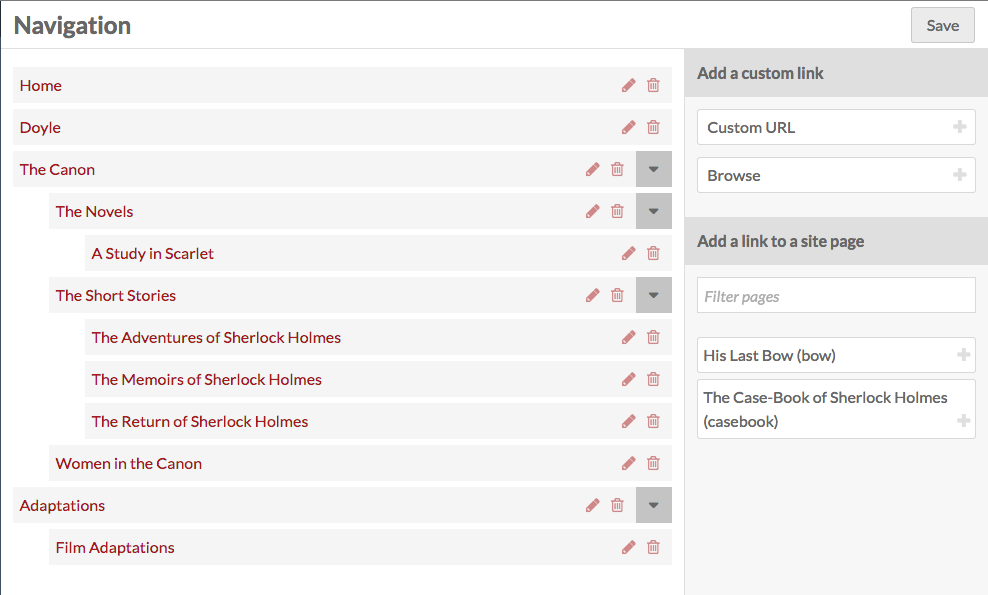
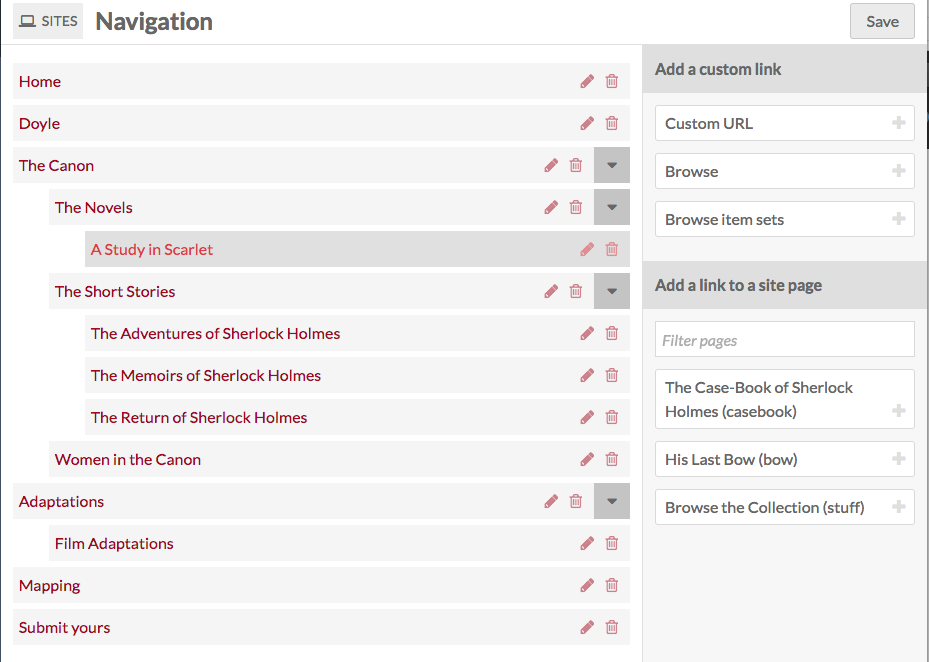
updates to nav
new screenshots

diff --git a/docs/sites/site_navigation.md b/docs/sites/site_navigation.md
@@ -9,6 +9,8 @@ Use the *Navigation* tab of the [Sites](../sites/sites.md) to manage the navigat
 The topmost item in the navigation is the main page for your site.
 
 ## Adding Navigation
+Add to the navigation of the site using the options on the right hand side of the page. There are two sections: [Add a custom link](../sites/site_navigation/#custom-link) and [Add a link to a site page](../sites/site_navigation/#site-page)
+
 ### Custom Link
 To add a link you can use the *Add a custom link* buttons on the right hand drawer to add either:
  * a *Custom URL* to any web address; or
